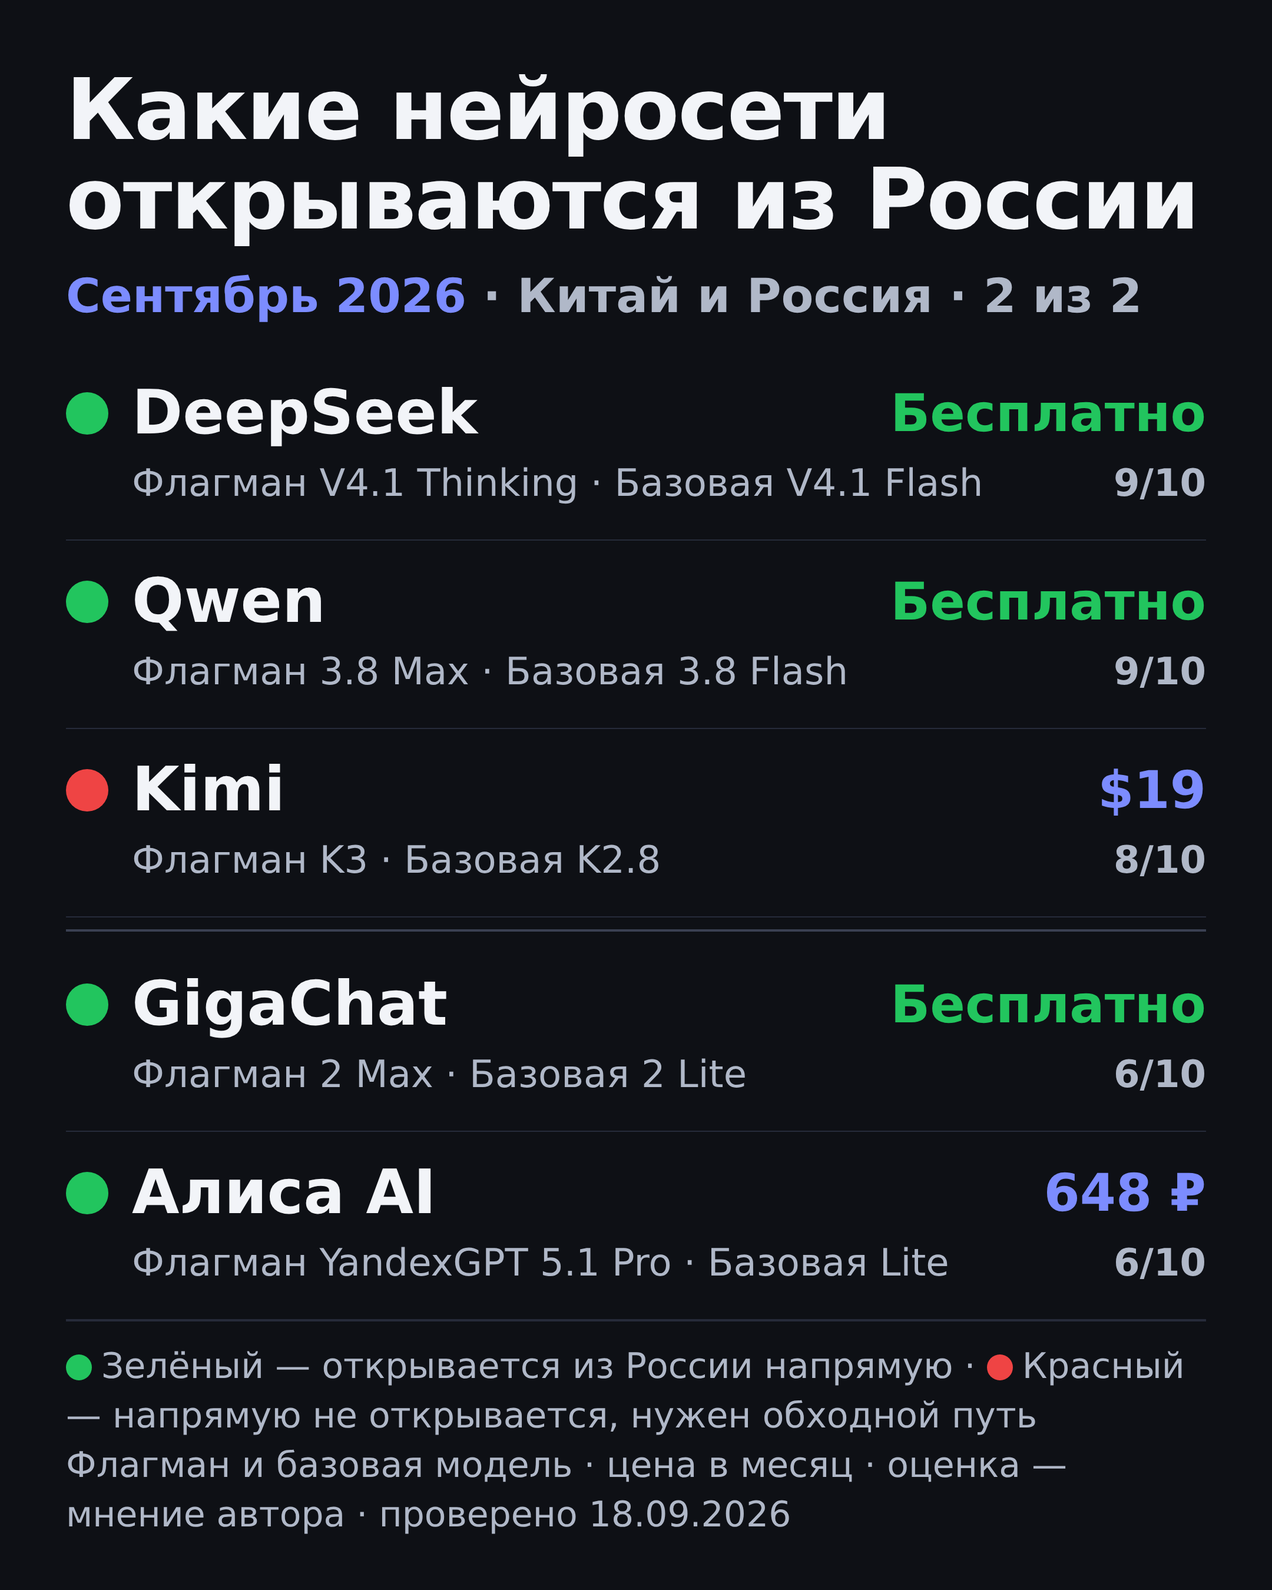
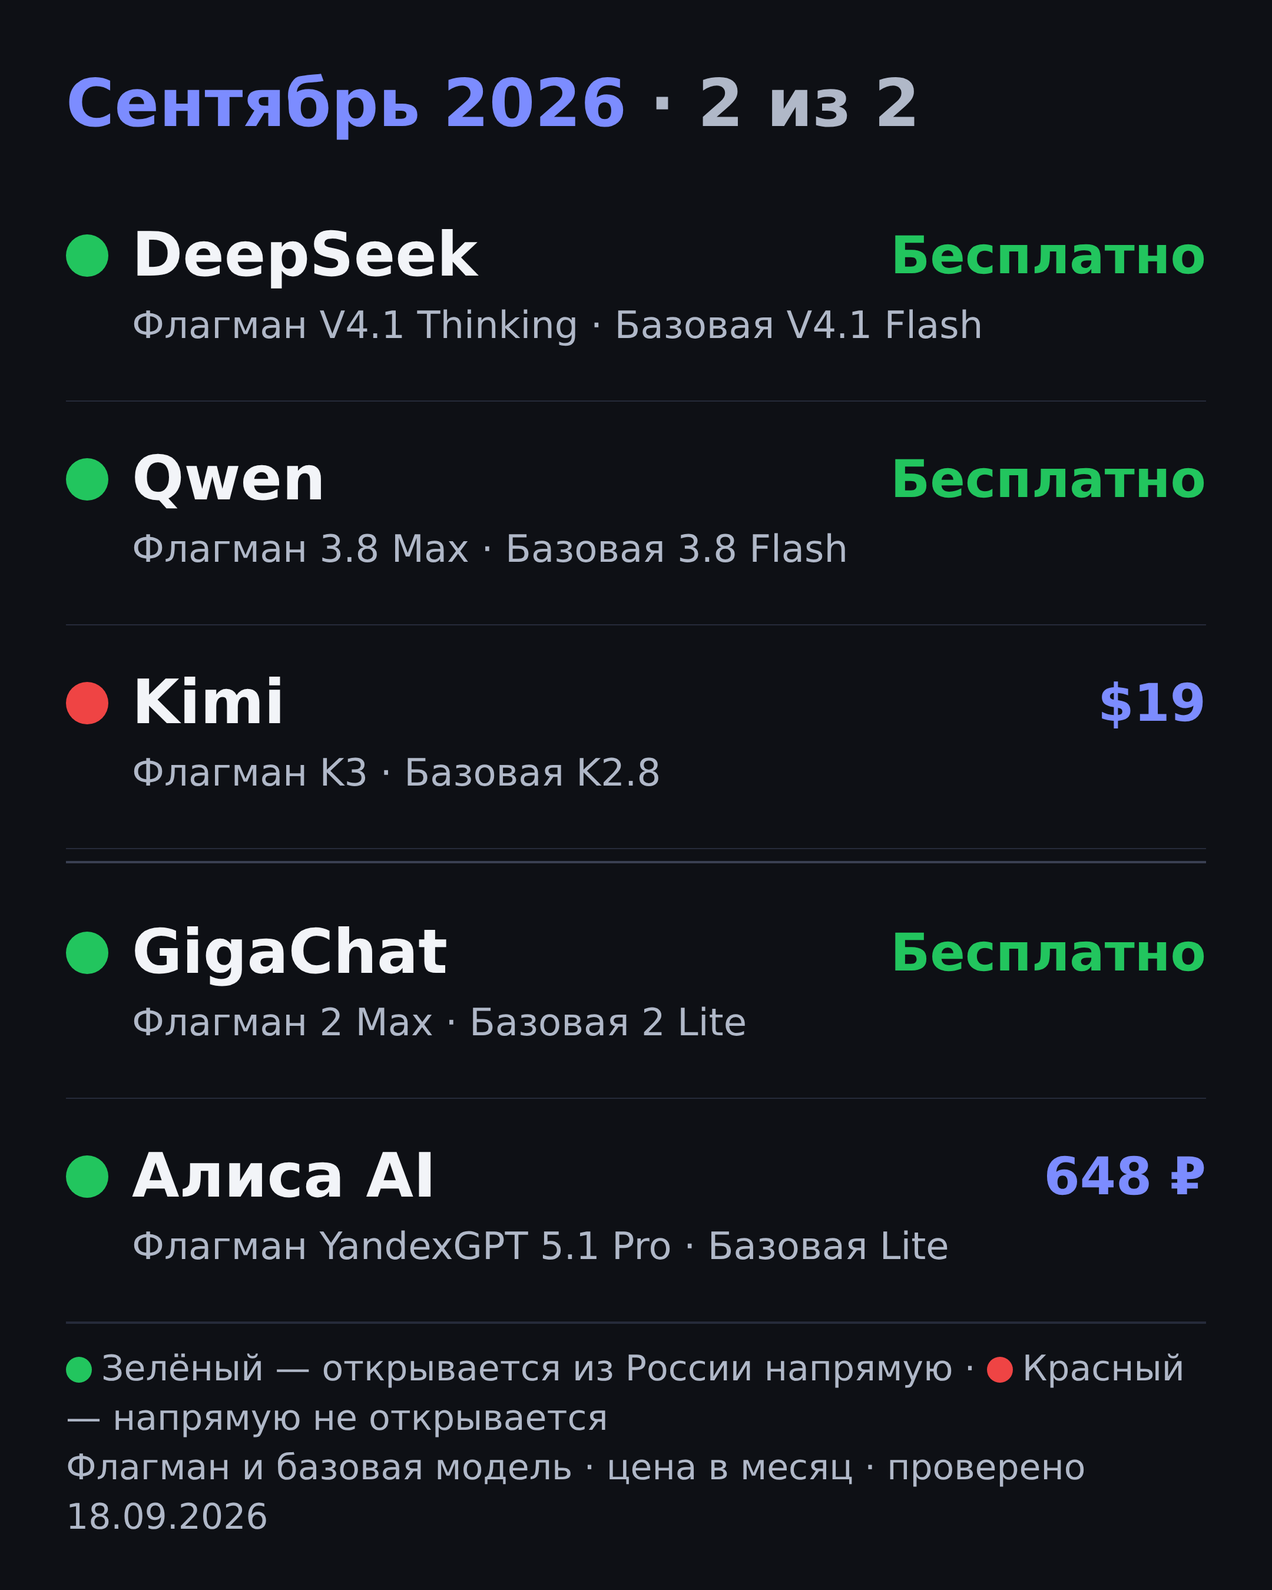
Strip infographic to essentials: no title, regions, scores or notes
Claude-Session: https://claude.ai/code/session_01GbjW8bxEQgz9oMArHuc3aS

diff --git a/posts/ai-models-russia/index.html b/posts/ai-models-russia/index.html
@@ -10,10 +10,10 @@
   html,body{margin:0;background:var(--bg);color:var(--text);font-family:"Inter","Segoe UI",system-ui,"DejaVu Sans",Arial,sans-serif}
   .page{width:1080px;height:1350px;padding:56px;display:flex;flex-direction:column;background:var(--bg)}
   h1{font-size:72px;line-height:1.05;margin:0;font-weight:800;letter-spacing:-1px}
-  .sub{font-size:40px;font-weight:700;color:var(--muted);margin:22px 0 0}
+  .sub{font-size:56px;font-weight:800;color:var(--muted);margin:0}
   .sub b{color:var(--accent)}
-  .rows{margin-top:24px;flex:1}
-  .row{height:160px;border-bottom:1px solid var(--line);padding:26px 0 0}
+  .rows{margin-top:30px;flex:1}
+  .row{height:190px;border-bottom:1px solid var(--line);padding:40px 0 0}
   .l1{display:flex;align-items:center;gap:20px}
   .dot{width:36px;height:36px;border-radius:50%;flex:none}
   .row.g .dot{background:var(--green)} .row.r .dot{background:var(--red)}
@@ -35,61 +35,59 @@
 </head>
 <body class="stack">
 <div class="page">
-  <h1>Какие нейросети<br>открываются из России</h1>
-  <p class="sub"><b>Сентябрь 2026</b> · США и Европа · 1 из 2</p>
+  <p class="sub"><b>Сентябрь 2026</b> · 1 из 2</p>
   <div class="rows">
     <div class="row r">
       <div class="l1"><span class="dot"></span><a class="name" href="https://chatgpt.com">ChatGPT</a><span class="price">$20</span></div>
-      <div class="l2"><span>Флагман GPT-6 · Базовая GPT-5.6</span><span class="score">10/10</span></div>
+      <div class="l2"><span>Флагман GPT-6 · Базовая GPT-5.6</span></div>
     </div>
     <div class="row r">
       <div class="l1"><span class="dot"></span><a class="name" href="https://claude.ai">Claude</a><span class="price">$20</span></div>
-      <div class="l2"><span>Флагман Fable 5.1 · Базовая Sonnet 5</span><span class="score">10/10</span></div>
+      <div class="l2"><span>Флагман Fable 5.1 · Базовая Sonnet 5</span></div>
     </div>
     <div class="row r">
       <div class="l1"><span class="dot"></span><a class="name" href="https://gemini.google.com">Gemini</a><span class="price">$20</span></div>
-      <div class="l2"><span>Флагман 3.1 Pro · Базовая 3.8 Flash</span><span class="score">9/10</span></div>
+      <div class="l2"><span>Флагман 3.1 Pro · Базовая 3.8 Flash</span></div>
     </div>
     <div class="row r">
       <div class="l1"><span class="dot"></span><a class="name" href="https://grok.com">Grok</a><span class="price">$30</span></div>
-      <div class="l2"><span>Флагман 4.6 Heavy · Базовая 4.6 · есть free</span><span class="score">8/10</span></div>
+      <div class="l2"><span>Флагман 4.6 Heavy · Базовая 4.6</span></div>
     </div>
     <div class="row g">
       <div class="l1"><span class="dot"></span><a class="name" href="https://chat.mistral.ai">Mistral</a><span class="price">$15</span></div>
-      <div class="l2"><span>Флагман Medium 3.5 · Базовая Small 4</span><span class="score">7/10</span></div>
+      <div class="l2"><span>Флагман Medium 3.5 · Базовая Small 4</span></div>
     </div>
   </div>
-  <div class="foot"><span class="dot g"></span>Зелёный — открывается из России напрямую · <span class="dot r"></span>Красный — напрямую не открывается, нужен обходной путь<br>
-  Флагман и базовая модель · цена в месяц · оценка — мнение автора · проверено 18.09.2026</div>
+  <div class="foot"><span class="dot g"></span>Зелёный — открывается из России напрямую · <span class="dot r"></span>Красный — напрямую не открывается<br>
+  Флагман и базовая модель · цена в месяц · проверено 18.09.2026</div>
 </div>
 <div class="page">
-  <h1>Какие нейросети<br>открываются из России</h1>
-  <p class="sub"><b>Сентябрь 2026</b> · Китай и Россия · 2 из 2</p>
+  <p class="sub"><b>Сентябрь 2026</b> · 2 из 2</p>
   <div class="rows">
     <div class="row g">
       <div class="l1"><span class="dot"></span><a class="name" href="https://chat.deepseek.com">DeepSeek</a><span class="price free">Бесплатно</span></div>
-      <div class="l2"><span>Флагман V4.1 Thinking · Базовая V4.1 Flash</span><span class="score">9/10</span></div>
+      <div class="l2"><span>Флагман V4.1 Thinking · Базовая V4.1 Flash</span></div>
     </div>
     <div class="row g">
       <div class="l1"><span class="dot"></span><a class="name" href="https://chat.qwen.ai">Qwen</a><span class="price free">Бесплатно</span></div>
-      <div class="l2"><span>Флагман 3.8 Max · Базовая 3.8 Flash</span><span class="score">9/10</span></div>
+      <div class="l2"><span>Флагман 3.8 Max · Базовая 3.8 Flash</span></div>
     </div>
     <div class="row r">
       <div class="l1"><span class="dot"></span><a class="name" href="https://www.kimi.com">Kimi</a><span class="price">$19</span></div>
-      <div class="l2"><span>Флагман K3 · Базовая K2.8</span><span class="score">8/10</span></div>
+      <div class="l2"><span>Флагман K3 · Базовая K2.8</span></div>
     </div>
     <div class="sep"></div>
     <div class="row g">
       <div class="l1"><span class="dot"></span><a class="name" href="https://giga.chat">GigaChat</a><span class="price free">Бесплатно</span></div>
-      <div class="l2"><span>Флагман 2 Max · Базовая 2 Lite</span><span class="score">6/10</span></div>
+      <div class="l2"><span>Флагман 2 Max · Базовая 2 Lite</span></div>
     </div>
     <div class="row g">
       <div class="l1"><span class="dot"></span><a class="name" href="https://alice.yandex.ru">Алиса AI</a><span class="price">648 ₽</span></div>
-      <div class="l2"><span>Флагман YandexGPT 5.1 Pro · Базовая Lite</span><span class="score">6/10</span></div>
+      <div class="l2"><span>Флагман YandexGPT 5.1 Pro · Базовая Lite</span></div>
     </div>
   </div>
-  <div class="foot"><span class="dot g"></span>Зелёный — открывается из России напрямую · <span class="dot r"></span>Красный — напрямую не открывается, нужен обходной путь<br>
-  Флагман и базовая модель · цена в месяц · оценка — мнение автора · проверено 18.09.2026</div>
+  <div class="foot"><span class="dot g"></span>Зелёный — открывается из России напрямую · <span class="dot r"></span>Красный — напрямую не открывается<br>
+  Флагман и базовая модель · цена в месяц · проверено 18.09.2026</div>
 </div>
 </body>
 </html>

diff --git a/posts/ai-models-russia/part2.html b/posts/ai-models-russia/part2.html
@@ -10,10 +10,10 @@
   html,body{margin:0;background:var(--bg);color:var(--text);font-family:"Inter","Segoe UI",system-ui,"DejaVu Sans",Arial,sans-serif}
   .page{width:1080px;height:1350px;padding:56px;display:flex;flex-direction:column;background:var(--bg)}
   h1{font-size:72px;line-height:1.05;margin:0;font-weight:800;letter-spacing:-1px}
-  .sub{font-size:40px;font-weight:700;color:var(--muted);margin:22px 0 0}
+  .sub{font-size:56px;font-weight:800;color:var(--muted);margin:0}
   .sub b{color:var(--accent)}
-  .rows{margin-top:24px;flex:1}
-  .row{height:160px;border-bottom:1px solid var(--line);padding:26px 0 0}
+  .rows{margin-top:30px;flex:1}
+  .row{height:190px;border-bottom:1px solid var(--line);padding:40px 0 0}
   .l1{display:flex;align-items:center;gap:20px}
   .dot{width:36px;height:36px;border-radius:50%;flex:none}
   .row.g .dot{background:var(--green)} .row.r .dot{background:var(--red)}
@@ -35,33 +35,32 @@
 </head>
 <body class="">
 <div class="page">
-  <h1>Какие нейросети<br>открываются из России</h1>
-  <p class="sub"><b>Сентябрь 2026</b> · Китай и Россия · 2 из 2</p>
+  <p class="sub"><b>Сентябрь 2026</b> · 2 из 2</p>
   <div class="rows">
     <div class="row g">
       <div class="l1"><span class="dot"></span><a class="name" href="https://chat.deepseek.com">DeepSeek</a><span class="price free">Бесплатно</span></div>
-      <div class="l2"><span>Флагман V4.1 Thinking · Базовая V4.1 Flash</span><span class="score">9/10</span></div>
+      <div class="l2"><span>Флагман V4.1 Thinking · Базовая V4.1 Flash</span></div>
     </div>
     <div class="row g">
       <div class="l1"><span class="dot"></span><a class="name" href="https://chat.qwen.ai">Qwen</a><span class="price free">Бесплатно</span></div>
-      <div class="l2"><span>Флагман 3.8 Max · Базовая 3.8 Flash</span><span class="score">9/10</span></div>
+      <div class="l2"><span>Флагман 3.8 Max · Базовая 3.8 Flash</span></div>
     </div>
     <div class="row r">
       <div class="l1"><span class="dot"></span><a class="name" href="https://www.kimi.com">Kimi</a><span class="price">$19</span></div>
-      <div class="l2"><span>Флагман K3 · Базовая K2.8</span><span class="score">8/10</span></div>
+      <div class="l2"><span>Флагман K3 · Базовая K2.8</span></div>
     </div>
     <div class="sep"></div>
     <div class="row g">
       <div class="l1"><span class="dot"></span><a class="name" href="https://giga.chat">GigaChat</a><span class="price free">Бесплатно</span></div>
-      <div class="l2"><span>Флагман 2 Max · Базовая 2 Lite</span><span class="score">6/10</span></div>
+      <div class="l2"><span>Флагман 2 Max · Базовая 2 Lite</span></div>
     </div>
     <div class="row g">
       <div class="l1"><span class="dot"></span><a class="name" href="https://alice.yandex.ru">Алиса AI</a><span class="price">648 ₽</span></div>
-      <div class="l2"><span>Флагман YandexGPT 5.1 Pro · Базовая Lite</span><span class="score">6/10</span></div>
+      <div class="l2"><span>Флагман YandexGPT 5.1 Pro · Базовая Lite</span></div>
     </div>
   </div>
-  <div class="foot"><span class="dot g"></span>Зелёный — открывается из России напрямую · <span class="dot r"></span>Красный — напрямую не открывается, нужен обходной путь<br>
-  Флагман и базовая модель · цена в месяц · оценка — мнение автора · проверено 18.09.2026</div>
+  <div class="foot"><span class="dot g"></span>Зелёный — открывается из России напрямую · <span class="dot r"></span>Красный — напрямую не открывается<br>
+  Флагман и базовая модель · цена в месяц · проверено 18.09.2026</div>
 </div>
 </body>
 </html>

diff --git a/posts/ai-models-russia/part1.html b/posts/ai-models-russia/part1.html
@@ -10,10 +10,10 @@
   html,body{margin:0;background:var(--bg);color:var(--text);font-family:"Inter","Segoe UI",system-ui,"DejaVu Sans",Arial,sans-serif}
   .page{width:1080px;height:1350px;padding:56px;display:flex;flex-direction:column;background:var(--bg)}
   h1{font-size:72px;line-height:1.05;margin:0;font-weight:800;letter-spacing:-1px}
-  .sub{font-size:40px;font-weight:700;color:var(--muted);margin:22px 0 0}
+  .sub{font-size:56px;font-weight:800;color:var(--muted);margin:0}
   .sub b{color:var(--accent)}
-  .rows{margin-top:24px;flex:1}
-  .row{height:160px;border-bottom:1px solid var(--line);padding:26px 0 0}
+  .rows{margin-top:30px;flex:1}
+  .row{height:190px;border-bottom:1px solid var(--line);padding:40px 0 0}
   .l1{display:flex;align-items:center;gap:20px}
   .dot{width:36px;height:36px;border-radius:50%;flex:none}
   .row.g .dot{background:var(--green)} .row.r .dot{background:var(--red)}
@@ -35,32 +35,31 @@
 </head>
 <body class="">
 <div class="page">
-  <h1>Какие нейросети<br>открываются из России</h1>
-  <p class="sub"><b>Сентябрь 2026</b> · США и Европа · 1 из 2</p>
+  <p class="sub"><b>Сентябрь 2026</b> · 1 из 2</p>
   <div class="rows">
     <div class="row r">
       <div class="l1"><span class="dot"></span><a class="name" href="https://chatgpt.com">ChatGPT</a><span class="price">$20</span></div>
-      <div class="l2"><span>Флагман GPT-6 · Базовая GPT-5.6</span><span class="score">10/10</span></div>
+      <div class="l2"><span>Флагман GPT-6 · Базовая GPT-5.6</span></div>
     </div>
     <div class="row r">
       <div class="l1"><span class="dot"></span><a class="name" href="https://claude.ai">Claude</a><span class="price">$20</span></div>
-      <div class="l2"><span>Флагман Fable 5.1 · Базовая Sonnet 5</span><span class="score">10/10</span></div>
+      <div class="l2"><span>Флагман Fable 5.1 · Базовая Sonnet 5</span></div>
     </div>
     <div class="row r">
       <div class="l1"><span class="dot"></span><a class="name" href="https://gemini.google.com">Gemini</a><span class="price">$20</span></div>
-      <div class="l2"><span>Флагман 3.1 Pro · Базовая 3.8 Flash</span><span class="score">9/10</span></div>
+      <div class="l2"><span>Флагман 3.1 Pro · Базовая 3.8 Flash</span></div>
     </div>
     <div class="row r">
       <div class="l1"><span class="dot"></span><a class="name" href="https://grok.com">Grok</a><span class="price">$30</span></div>
-      <div class="l2"><span>Флагман 4.6 Heavy · Базовая 4.6 · есть free</span><span class="score">8/10</span></div>
+      <div class="l2"><span>Флагман 4.6 Heavy · Базовая 4.6</span></div>
     </div>
     <div class="row g">
       <div class="l1"><span class="dot"></span><a class="name" href="https://chat.mistral.ai">Mistral</a><span class="price">$15</span></div>
-      <div class="l2"><span>Флагман Medium 3.5 · Базовая Small 4</span><span class="score">7/10</span></div>
+      <div class="l2"><span>Флагман Medium 3.5 · Базовая Small 4</span></div>
     </div>
   </div>
-  <div class="foot"><span class="dot g"></span>Зелёный — открывается из России напрямую · <span class="dot r"></span>Красный — напрямую не открывается, нужен обходной путь<br>
-  Флагман и базовая модель · цена в месяц · оценка — мнение автора · проверено 18.09.2026</div>
+  <div class="foot"><span class="dot g"></span>Зелёный — открывается из России напрямую · <span class="dot r"></span>Красный — напрямую не открывается<br>
+  Флагман и базовая модель · цена в месяц · проверено 18.09.2026</div>
 </div>
 </body>
 </html>

diff --git a/posts/ai-models-russia/build.py b/posts/ai-models-russia/build.py
@@ -9,7 +9,7 @@ PART1 = [
  ("r","ChatGPT","https://chatgpt.com","GPT-6","GPT-5.6","$20",False,"",10),
  ("r","Claude","https://claude.ai","Fable 5.1","Sonnet 5","$20",False,"",10),
  ("r","Gemini","https://gemini.google.com","3.1 Pro","3.8 Flash","$20",False,"",9),
- ("r","Grok","https://grok.com","4.6 Heavy","4.6","$30",False,"есть free",8),
+ ("r","Grok","https://grok.com","4.6 Heavy","4.6","$30",False,"",8),
  ("g","Mistral","https://chat.mistral.ai","Medium 3.5","Small 4","$15",False,"",7),
 ]
 PART2 = [
@@ -28,7 +28,7 @@ def row(r):
     note = f' · {note}' if note else ''
     return f'''    <div class="row {l}">
       <div class="l1"><span class="dot"></span><a class="name" href="{u}">{n}</a><span class="price{' free' if free else ''}">{p}</span></div>
-      <div class="l2"><span>Флагман {f} · Базовая {b}{note}</span><span class="score">{s}/10</span></div>
+      <div class="l2"><span>Флагман {f} · Базовая {b}{note}</span></div>
     </div>'''
 
 CSS = '''
@@ -37,10 +37,10 @@ CSS = '''
   html,body{margin:0;background:var(--bg);color:var(--text);font-family:"Inter","Segoe UI",system-ui,"DejaVu Sans",Arial,sans-serif}
   .page{width:1080px;height:1350px;padding:56px;display:flex;flex-direction:column;background:var(--bg)}
   h1{font-size:72px;line-height:1.05;margin:0;font-weight:800;letter-spacing:-1px}
-  .sub{font-size:40px;font-weight:700;color:var(--muted);margin:22px 0 0}
+  .sub{font-size:56px;font-weight:800;color:var(--muted);margin:0}
   .sub b{color:var(--accent)}
-  .rows{margin-top:24px;flex:1}
-  .row{height:160px;border-bottom:1px solid var(--line);padding:26px 0 0}
+  .rows{margin-top:30px;flex:1}
+  .row{height:190px;border-bottom:1px solid var(--line);padding:40px 0 0}
   .l1{display:flex;align-items:center;gap:20px}
   .dot{width:36px;height:36px;border-radius:50%;flex:none}
   .row.g .dot{background:var(--green)} .row.r .dot{background:var(--red)}
@@ -62,13 +62,12 @@ CSS = '''
 
 def page(sub, rows):
     return f'''<div class="page">
-  <h1>Какие нейросети<br>открываются из России</h1>
   <p class="sub"><b>Сентябрь 2026</b> · {sub}</p>
   <div class="rows">
 {chr(10).join(row(r) for r in rows)}
   </div>
-  <div class="foot"><span class="dot g"></span>Зелёный — открывается из России напрямую · <span class="dot r"></span>Красный — напрямую не открывается, нужен обходной путь<br>
-  Флагман и базовая модель · цена в месяц · оценка — мнение автора · проверено {DATE}</div>
+  <div class="foot"><span class="dot g"></span>Зелёный — открывается из России напрямую · <span class="dot r"></span>Красный — напрямую не открывается<br>
+  Флагман и базовая модель · цена в месяц · проверено {DATE}</div>
 </div>'''
 
 def doc(body, stack=False):
@@ -86,8 +85,8 @@ def doc(body, stack=False):
 </html>
 '''
 
-p1 = page("США и Европа · 1 из 2", PART1)
-p2 = page("Китай и Россия · 2 из 2", PART2)
+p1 = page("1 из 2", PART1)
+p2 = page("2 из 2", PART2)
 for fname, html in [("part1.html", doc(p1)), ("part2.html", doc(p2)), ("index.html", doc(p1 + "\n" + p2, stack=True))]:
     open(fname, "w").write(html)
     print(fname, "written")
